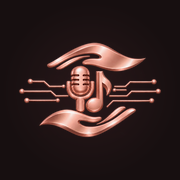
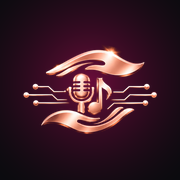
Rebrand app to the new Russian Karaoke identity
- Onyx/plum/rose-gold palette, Cinzel+Forum / Montserrat fonts
- New emblem + wordmark in header and opening animation
- New favicon, app icons, maskable icon; manifest/theme colors
- CLAUDE.md pointing at the brand guidelines

Claude-Session: https://claude.ai/code/session_01G5hhYbTm9t5M877GzqkgoW

Changed region(s): [[0.0833, 0.1389, 0.9167, 0.7778]]

diff --git a/index.html b/index.html
@@ -4,35 +4,41 @@
 <meta charset="utf-8">
 <meta name="viewport" content="width=device-width, initial-scale=1">
 <title>Russian Karaoke Songbook</title>
-<link rel="icon" href="icon-192.png">
+<link rel="icon" href="favicon-32.png" sizes="32x32">
+<link rel="icon" href="icon-192.png" sizes="192x192">
 <link rel="manifest" href="manifest.json">
 <link rel="apple-touch-icon" href="apple-touch-icon.png">
-<meta name="theme-color" content="#170f10">
+<meta name="theme-color" content="#0B0B0F">
 <meta name="mobile-web-app-capable" content="yes">
 <meta name="apple-mobile-web-app-capable" content="yes">
 <meta name="apple-mobile-web-app-status-bar-style" content="black">
 <meta name="apple-mobile-web-app-title" content="Karaoke">
 <link rel="preconnect" href="https://fonts.googleapis.com">
 <link rel="preconnect" href="https://fonts.gstatic.com" crossorigin>
-<link href="https://fonts.googleapis.com/css2?family=Golos+Text:wght@400;500;600;700&family=Unbounded:wght@500;700;800&display=swap" rel="stylesheet">
+<link href="https://fonts.googleapis.com/css2?family=Cinzel:wght@600;700&family=Forum&family=Great+Vibes&family=Montserrat:wght@400;500;600;700&display=swap" rel="stylesheet">
 <style>
 /* Layout idea: one phone-width column — brand bar, scrolling list, thumb-reach tab bar.
    One visual world (karaoke night, rose gold), so single dark theme by choice. */
 :root{
-  /* Palette taken from the Russian Karaoke logo: rose-gold foil on a warm, wine-dark night. */
+  /* Russian Karaoke brand palette (source of truth: russiankaraoke repo, brand/colors.md + assets/css/tokens.css).
+     Onyx page, plum glows, rose-gold metal. Variable names kept from v1 so the rest of the CSS is unchanged. */
   color-scheme: dark;
-  --night:#170f10;      /* page */
-  --plum:#261819;       /* cards, bars */
-  --plum-2:#352224;     /* inputs, pressed */
-  --line:#553539;       /* hairlines */
-  --cream:#fbeee8;      /* text */
-  --muted:#c9aaa1;      /* secondary text */
-  --gold:#eea290;       /* rose gold: the accent, from the logo's mid-tone */
-  --foil:linear-gradient(170deg,#fbd9cc 0%,#f2ab98 45%,#d48876 100%); /* logo highlight to shade */
-  --pink:#ff6f86;       /* favorites */
-  --mint:#9bd8bd;       /* sung */
-  --display:"Unbounded","Golos Text",system-ui,sans-serif;
-  --body:"Golos Text",system-ui,-apple-system,"Segoe UI",Roboto,sans-serif;
+  --night:#0B0B0F;      /* Onyx — page */
+  --plum:#21101A;       /* surface-raised — cards, bars */
+  --plum-2:#2E1522;     /* inputs, pressed */
+  --plum-brand:#6A0D3A; /* Plum — glows */
+  --line:#4A2032;       /* hairlines */
+  --cream:#FFF7F2;      /* Ivory — text */
+  --muted:#D8BCB4;      /* secondary text */
+  --gold:#D9A3A3;       /* Rose Gold — the accent */
+  --champagne:#F4D6C4;
+  --foil:linear-gradient(170deg,#FBE3D6 0%,#E9B5A3 45%,#C98473 100%); /* metallic rose gold */
+  --pink:#F07A93;       /* favorites (functional) */
+  --mint:#9BD8BD;       /* sung (functional) */
+  --placeholder:#A8888A;
+  --display:"Cinzel","Forum",Georgia,serif; /* Forum covers Cyrillic; Cinzel is Latin-only */
+  --body:"Montserrat",system-ui,-apple-system,"Segoe UI",Roboto,sans-serif;
+  --script:"Great Vibes",cursive;
   --r:16px;
 }
 *{box-sizing:border-box}
@@ -45,23 +51,23 @@ button{cursor:pointer;border:0;background:none;padding:0}
 [hidden]{display:none!important}
 
 .app{height:100%;max-width:480px;margin:0 auto;display:flex;flex-direction:column;
-  background:radial-gradient(120% 40% at 50% 0%,#45262a 0%,var(--night) 70%)}
+  background:radial-gradient(120% 40% at 50% 0%,rgba(106,13,58,.6) 0%,var(--night) 70%)}
 
 /* brand bar */
 .top{display:flex;align-items:center;justify-content:space-between;gap:12px;padding:22px 16px 12px}
 .brand{display:flex;flex-direction:column;gap:6px;min-width:0}
-.hmark{height:56px;width:auto;flex:none;filter:drop-shadow(0 0 10px rgba(238,162,144,.3))}
+.hmark{height:56px;width:auto;flex:none;filter:drop-shadow(0 0 10px rgba(233,181,163,.35))}
 .logo{display:flex;align-items:center;gap:10px}
-.logo b{font-family:var(--display);font-weight:800;font-size:18px;letter-spacing:-.02em;color:var(--gold);
+.logo b{font-family:var(--body);font-weight:600;font-size:16px;letter-spacing:.14em;text-transform:uppercase;color:var(--gold);
   background:var(--foil);-webkit-background-clip:text;background-clip:text;-webkit-text-fill-color:transparent}
 .eq{display:flex;align-items:flex-end;gap:3px;height:20px}
-.eq i{width:4px;border-radius:2px;background:var(--pink);animation:eq 1.1s ease-in-out infinite}
+.eq i{width:4px;border-radius:2px;background:var(--foil);animation:eq 1.1s ease-in-out infinite}
 .eq i:nth-child(1){height:40%}.eq i:nth-child(2){height:100%;animation-delay:-.3s}
 .eq i:nth-child(3){height:65%;animation-delay:-.6s}
 @keyframes eq{0%,100%{transform:scaleY(.45)}50%{transform:scaleY(1)}}
 .eq i{transform-origin:bottom}
 .by{display:flex;align-items:center;gap:6px;font-size:12px;color:var(--muted);text-decoration:none}
-.by span.n{font-family:var(--display);font-weight:700;font-size:11px;color:var(--night);background:var(--foil);
+.by span.n{font-family:var(--body);font-weight:700;font-size:11px;color:var(--night);background:var(--foil);
   border-radius:7px;padding:3px 5px;line-height:1}
 .by strong{color:var(--cream);font-weight:600}
 
@@ -76,7 +82,7 @@ h1{font-family:var(--display);font-weight:700;font-size:19px;margin:6px 0 0;text
 .hello h2{font-family:var(--display);font-size:16px;margin:0}
 .rowform{display:flex;gap:8px}
 .field{flex:1;min-width:0;background:var(--plum-2);border:1px solid var(--line);border-radius:12px;padding:12px 14px}
-.field::placeholder{color:#9a7d77}
+.field::placeholder{color:var(--placeholder)}
 .btn{background:var(--foil);color:var(--night);font-weight:700;border-radius:12px;padding:12px 16px;white-space:nowrap}
 .btn.ghost{background:var(--plum-2);background-image:none;color:var(--cream);border:1px solid var(--line);font-weight:600}
 .btn.wide{width:100%}
@@ -89,10 +95,10 @@ h1{font-family:var(--display);font-weight:700;font-size:19px;margin:6px 0 0;text
 .search label:focus-within{border-color:var(--gold)}
 .search label span{font-size:12px;font-weight:600;color:var(--gold);width:58px;flex:none;text-transform:uppercase;letter-spacing:.04em}
 .search input{flex:1;min-width:0;background:none;border:0;padding:13px 0;outline:none}
-.search input::placeholder{color:#9a7d77}
+.search input::placeholder{color:var(--placeholder)}
 .chips{display:flex;align-items:center;gap:8px;flex-wrap:wrap}
 .chip{border:1px solid var(--line);border-radius:999px;padding:6px 12px;font-size:13px;font-weight:600;color:var(--muted)}
-.chip[aria-pressed="true"]{background:var(--cream);color:var(--night);border-color:var(--cream)}
+.chip[aria-pressed="true"]{background:var(--foil);color:var(--night);border-color:transparent}
 .count{margin-left:auto;font-size:13px;color:var(--muted);font-variant-numeric:tabular-nums}
 
 /* song rows */
@@ -111,7 +117,7 @@ h1{font-family:var(--display);font-weight:700;font-size:19px;margin:6px 0 0;text
 .acts{display:flex;gap:6px;flex:none}
 .ib{width:40px;height:40px;border-radius:12px;background:var(--plum-2);display:grid;place-items:center;color:var(--muted)}
 .ib svg{width:20px;height:20px;fill:none;stroke:currentColor;stroke-width:2;stroke-linecap:round;stroke-linejoin:round}
-.ib.fav.on{color:var(--pink);background:#4d1f2b}
+.ib.fav.on{color:var(--pink);background:rgba(240,122,147,.16)}
 .ib.fav.on svg{fill:currentColor}
 .ib.add{color:var(--gold)}
 .ib.add.on{background:var(--foil);color:var(--night)}
@@ -174,7 +180,7 @@ nav .badge{position:absolute;top:2px;left:50%;margin-left:8px;min-width:18px;hei
 .legend .lf{fill:var(--pink);stroke:var(--pink)}.legend .la{fill:none;stroke:var(--gold)}
 
 /* first-visit walkthrough */
-.tour{position:fixed;inset:0;z-index:8;background:rgba(14,8,8,.8);display:flex;align-items:flex-end;justify-content:center}
+.tour{position:fixed;inset:0;z-index:8;background:rgba(11,11,15,.82);display:flex;align-items:flex-end;justify-content:center}
 .tour-card{width:100%;max-width:448px;margin:16px;background:var(--plum);border:1px solid var(--gold);border-radius:22px;
   padding:22px 18px 18px;display:flex;flex-direction:column;gap:12px;animation:rise .3s ease}
 @keyframes rise{from{transform:translateY(24px);opacity:0}}
@@ -190,17 +196,17 @@ nav .badge{position:absolute;top:2px;left:50%;margin-left:8px;min-width:18px;hei
 
 /* opening animation: logo large, gold light sweeps across it, then it flies to the corner */
 .intro{position:fixed;inset:0;z-index:10;display:grid;place-items:center}
-.intro-bg{position:absolute;inset:0;background:radial-gradient(90% 60% at 50% 45%,#45262a 0%,var(--night) 75%);transition:opacity .6s ease}
+.intro-bg{position:absolute;inset:0;background:radial-gradient(90% 60% at 50% 45%,rgba(106,13,58,.75) 0%,var(--night) 75%);transition:opacity .6s ease}
 .intro-in{position:relative;display:flex;flex-direction:column;align-items:center;gap:18px;width:min(78vw,330px)}
 .imark{width:100%;transform-origin:0 0}
 .imark-in{position:relative;animation:zoomin .7s cubic-bezier(.2,.8,.2,1) both,glow 1.5s .5s ease-in-out both}
 .imark img{display:block;width:100%;height:auto}
-.shine{position:absolute;inset:0;-webkit-mask:url(logo-mark.webp) center/100% 100% no-repeat;mask:url(logo-mark.webp) center/100% 100% no-repeat;
-  background:linear-gradient(105deg,transparent 38%,rgba(255,214,196,.55) 46%,rgba(255,248,242,.98) 50%,rgba(255,214,196,.55) 54%,transparent 62%) no-repeat;
+.shine{position:absolute;inset:0;-webkit-mask:url(rk-emblem.webp) center/100% 100% no-repeat;mask:url(rk-emblem.webp) center/100% 100% no-repeat;
+  background:linear-gradient(105deg,transparent 38%,rgba(251,227,214,.5) 46%,rgba(255,247,242,.95) 50%,rgba(251,227,214,.5) 54%,transparent 62%) no-repeat;
   background-size:300% 100%;background-position:100% 0;animation:shine 1.25s .55s ease-in-out both}
 .iword{width:100%;height:auto;animation:wordin .6s .45s ease both;transition:opacity .3s}
 @keyframes zoomin{from{transform:scale(1.5);opacity:0}}
-@keyframes glow{50%{filter:drop-shadow(0 0 26px rgba(248,190,173,.8))}}
+@keyframes glow{50%{filter:drop-shadow(0 0 26px rgba(233,181,163,.75))}}
 @keyframes shine{to{background-position:0 0}}
 @keyframes wordin{from{opacity:0;transform:translateY(10px)}}
 .intro.out .intro-bg{opacity:0}.intro.out .iword{opacity:0}
@@ -233,7 +239,7 @@ nav .badge{position:absolute;top:2px;left:50%;margin-left:8px;min-width:18px;hei
       </div>
       <a class="by" href="https://17hands.ai"><span data-i18n="by">brought to you by</span> <span class="n">17</span><strong>hands.ai</strong></a>
     </div>
-    <img class="hmark" id="h-mark" src="logo-mark.webp" alt="" width="84" height="56">
+    <img class="hmark" id="h-mark" src="rk-emblem.webp" alt="" width="84" height="56">
   </header>
 
   <main id="main">
@@ -359,8 +365,8 @@ nav .badge{position:absolute;top:2px;left:50%;margin-left:8px;min-width:18px;hei
 <div class="intro" id="intro" hidden>
   <div class="intro-bg"></div>
   <div class="intro-in">
-    <div class="imark" id="i-mark"><div class="imark-in"><img src="logo-mark.webp" alt="" id="i-img"><i class="shine"></i></div></div>
-    <img class="iword" id="i-word" src="logo-word.webp" alt="Russian Karaoke, brought to you by 17 hands.ai">
+    <div class="imark" id="i-mark"><div class="imark-in"><img src="rk-emblem.webp" alt="" id="i-img"><i class="shine"></i></div></div>
+    <img class="iword" id="i-word" src="rk-wordmark.webp" alt="Russian Karaoke" width="720" height="256">
   </div>
 </div>
 <div class="host" id="host" hidden>

diff --git a/CLAUDE.md b/CLAUDE.md
@@ -1,0 +1,16 @@
+# Russian Karaoke — guest app (russiankaraoke.app)
+
+Static PWA, no build step. `index.html` holds the whole app. Deployed on Vercel from `main`.
+
+## Brand
+The brand source of truth lives in the landing-page repo `17hands-ai/russiankaraoke`, folder `brand/` (colors, typography, logos, voice, components) and `assets/css/tokens.css`. Match it here.
+
+- Colors: the `:root` variables in `index.html` map the brand palette (Onyx #0B0B0F, Plum #6A0D3A, Rose Gold #D9A3A3, Champagne #F4D6C4, Ivory #FFF7F2, metallic `--foil`). Variable names (`--night`, `--plum`, `--gold`…) are kept from v1 so the CSS below doesn't change.
+- `--pink` (favorites) and `--mint` (sung) are functional state colors, not brand accents.
+- Fonts: Cinzel + Forum (Cyrillic fallback) for display, Montserrat for body/UI, Great Vibes for script moments only.
+- Logos: `rk-emblem.webp` (header + intro), `rk-wordmark.webp` (intro). Icons: `favicon-32.png`, `icon-192.png`, `icon-512.png`, `icon-maskable-512.png`, `apple-touch-icon.png`.
+
+## Rules
+- Every UI string in English, Russian and Ukrainian.
+- Don't rename the storage key `spoyka.v1` or move the app off `www.russiankaraoke.app` — guests' saved lists would vanish.
+- Dark theme only.

diff --git a/README.md b/README.md
@@ -9,6 +9,8 @@ Guests search the catalog by song or singer (Russian, Ukrainian or Latin letters
 ## Files
 
 - `index.html` — the whole app (no build step)
+- `rk-emblem.webp`, `rk-wordmark.webp` — logo emblem and wordmark; `favicon-32.png`, `icon-*.png`, `apple-touch-icon.png` — icons
+- Brand (colors, fonts, logos): see `CLAUDE.md` and the `brand/` folder in the landing-page repo
 - `songs.json` — the catalog: one artist per line, `[artist, [[title, №, № with backing vocals], …]]`; `0` means that version does not exist. Guests see the backing-vocals № first, because that is the version the host plays by default. Russian and Ukrainian songs only for now
 - `tools/build.py` — rebuilds `songs.json` from the Excel export (drops the trailing `+` some titles carry and merges plain and backing-vocals rows into one song)
 
